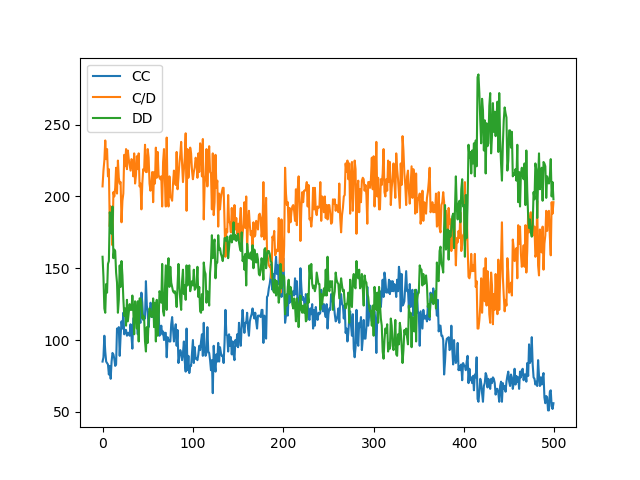
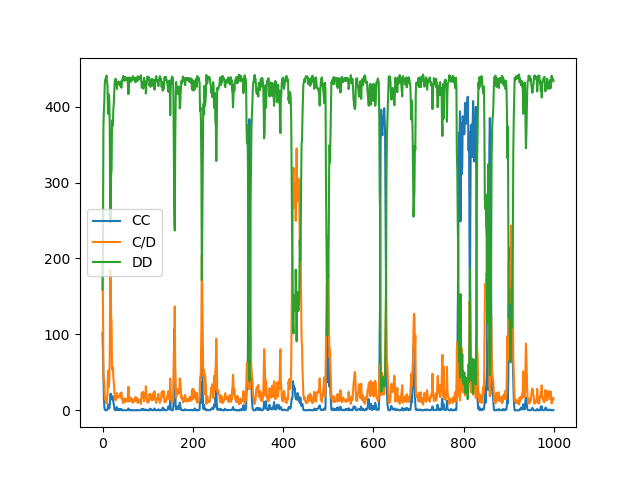
Tit for Tat emerges

diff --git a/main.py b/main.py
@@ -69,11 +69,14 @@ class MDP_Learner:
             normal_values[j] -= alpha  
             projected[i] += alpha 
             projected[j] -= alpha 
-        '''
-        scaling = 1.0
-        excess = max(i_after - 1 if i_after > 1 else abs(min(0, i_after)),
-        j_after - 1 if j_after > 1 else abs(min(0, j_after)))
-        ''' 
+        min_scaling = 1.0
+        for i in range(len(normal_values)):
+            i_after = projected[i]
+            excess = i_after - 1 if i_after > 1 else abs(min(0, i_after))
+            scaling = 1 - excess/abs(normal_values[i])
+            min_scaling = min(min_scaling, scaling)
+        normal_values *= min_scaling
+
         return normal_values
 
         lognormal_values = np.zeros(len(array))
@@ -86,6 +89,9 @@ class MDP_Learner:
 
         projected = copy(array)
         projected += normal_values 
+
+        '''
+        # Apply scaling to prevent illegal probabilities 
         scaling = np.ones(len(array))
         for j in range(len(array)):
             excess = 0
@@ -94,9 +100,19 @@ class MDP_Learner:
             elif projected[j] > 1:
                 excess = projected[j]-1 
             scaling[j] = 1-excess/abs(normal_values[j])
-        # Apply scaling to prevent illegal probabilities 
+        
         normal_values *= min(scaling)
+        '''
 
+        for j in range(len(array)):
+            excess = 0
+            if projected[j] < 0:
+                excess = abs(projected[j])
+                projected[j] += 2*excess
+            elif projected[j] > 1:
+                excess = projected[j]-1 
+                projected[j] -= 2*excess
+            
         return normal_values
 
     def mutate(self, rate):
@@ -111,8 +127,17 @@ class MDP_Learner:
                 self.matrix[i,shift:shift+self.state_size] += normal_values
                 # Expected delta positive should be equal to expected delta negative = rate 
                 # self.matrix[i,j] *= (1 + np.random.random() * rate - rate/2) 
-                # self.matrix[i,j] += (np.random.random() * rate) - rate/2 
-                # self.matrix[i,j] += np.random.normal(loc=0, scale=rate)
+                # self.matrix[i,j] += (np.random.random() * rate) - rate/2
+            
+            '''
+            for j in range(2, self.matrix.shape[1]):
+                self.matrix[i,j] += np.random.normal(loc=0, scale=rate)
+                if self.matrix[i,j] > 1:
+                    self.matrix[i,j] = 1 
+                elif self.matrix[i,j] < 0:
+                    self.matrix[i,j] = 0
+            '''
+
                     
                 
 
@@ -157,7 +182,7 @@ class Population:
             new_pops[-1].mutate(0.001)
             new_pops[-1].age = 0 
         '''
-        '''
+        
         # Kill off half and clone the rest 
         new_pops = sorted([(scores[i], self.pops[i]) for i in range(len(scores))], key=lambda x:x[0], reverse=True) 
         new_pops = new_pops[:len(scores)//2]
@@ -169,6 +194,8 @@ class Population:
             new_pops[-1].mutate(0.02) 
         
         self.pops = new_pops
+        
+
         '''
         # Kill off half and clone the rest 
         new_pops = copy(self.pops) 
@@ -179,42 +206,57 @@ class Population:
             new_pops[i].age += 1
             new_pops += [deepcopy(new_pops[i])]
             new_pops[-1].age = 0
-            new_pops[-1].mutate(0.02) 
+            new_pops[-1].mutate(0.01) 
         
         self.pops = new_pops
+        '''
         return combinations
 
 os.chdir(os.path.dirname(__file__))
 rand_seed = time.time()
 random.seed(rand_seed)
 # Change these
-name = "pd_random_5k_3"
+name = "pd_test"
 prisoner = [[[1,4],[3,3]],
                 [[2,2],[4,1]]]
 
 no_conflict = [[[3,2],[4,4]],
                 [[1,1],[2,3]]]
 p_matrix = prisoner
-iterations = 500
+iterations = 40000
 
-window = 1
-repetition = 10 
+window = 50
+repetition = 10
 play_to_str = {2 : "DD", 1 : "C/D", 0 : "CC"}
 template_combinations = {"DD":0, "C/D":0, "CC":0}
 tit_for_tat = np.asarray([[0,1.0,1.0,0.0,0.0,1.0], [1,0.0,1.0,0.0,0.0,1.0]])
-Pops = Population(10,2, repetition, fresh_mind=True)
+midway = np.asarray([[0,1.0,0.5,0.5,0.5,0.5], [1,0.0,0.5,0.5,0.5,0.5]])
+Pops = Population(10,2, repetition, fresh_mind=True, set_strategy=midway)
 name += "_" + str(len(Pops.pops)) + "players"
 np.set_printoptions(precision=2, suppress=True)
 tally = {"CC":[], "C/D":[], "DD":[]}
 
+test_gene_coverage = []
+fossils = []
 for i in range(iterations):
+    for pop in Pops.pops:
+        test_gene_coverage += [pop.matrix[0,2]] 
     combinations = (Pops.aggregate_selection(np.asarray([[p_matrix[0][1],p_matrix[0][0]],
                                                         [p_matrix[1][1],p_matrix[1][0]]])))
     for key in combinations:
         tally[key] += [combinations[key]]
-
+    if i % window == 0:
+        all_matrices = []
+        for pop in Pops.pops:
+            all_matrices += copy([pop.matrix])
+        fossils += [all_matrices]
+plt.hist(test_gene_coverage,bins=20)
+plt.show()
 for key in tally:
     plt.plot([sum(tally[key][i*window:(i+1)*window])/window for i in range(iterations//window)])
+
+ 
+
 plt.legend(tally.keys())
 
 plt.savefig(fname=name+".png")
@@ -232,6 +274,11 @@ with open(name + ".csv", "w", newline="") as f:
         f_writer.writerows(mat)
         f_writer.writerow([])
         
-
+while True:
+    generation = int(input("Generation to peek: "))
+    for i, pop_matrix in enumerate(fossils[generation]):
+        print("--- Agent {0} ---".format(i))
+        for row in pop_matrix:
+            print(row)
 
 
